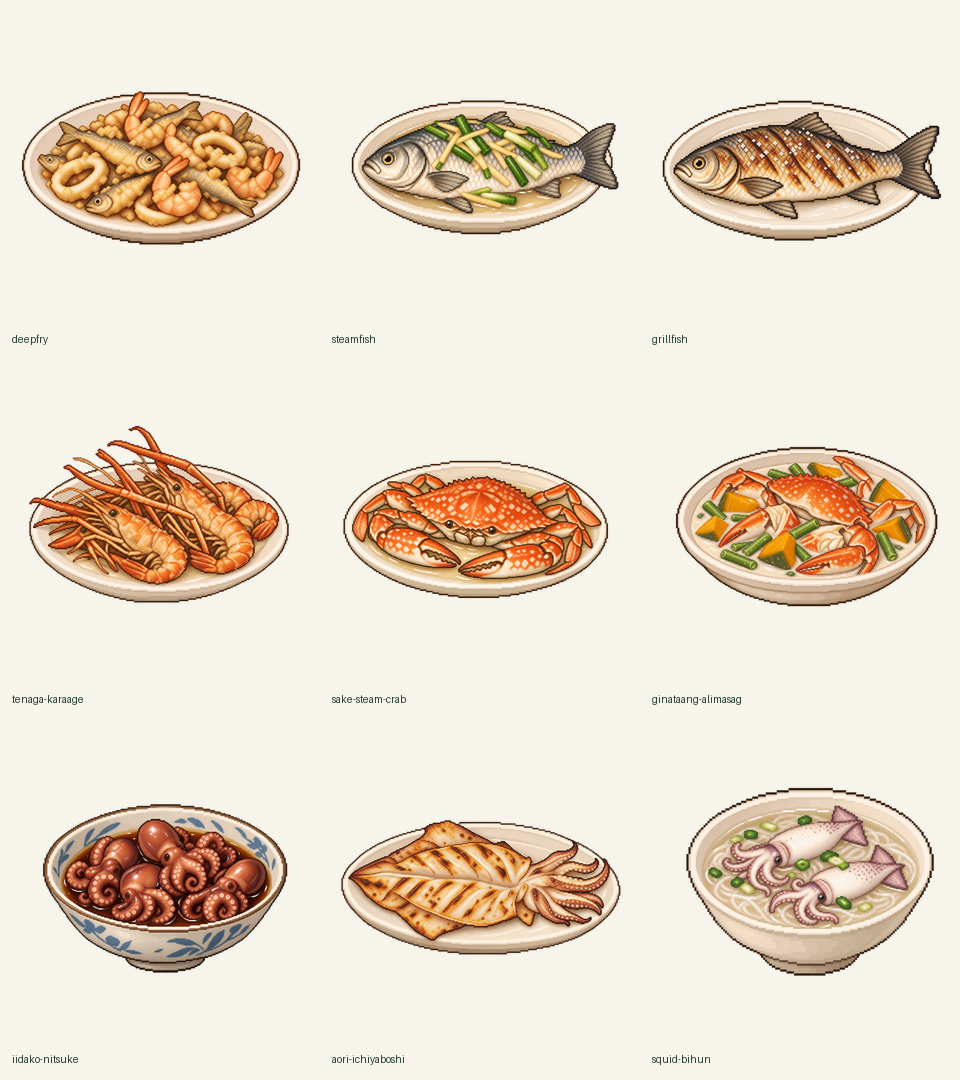
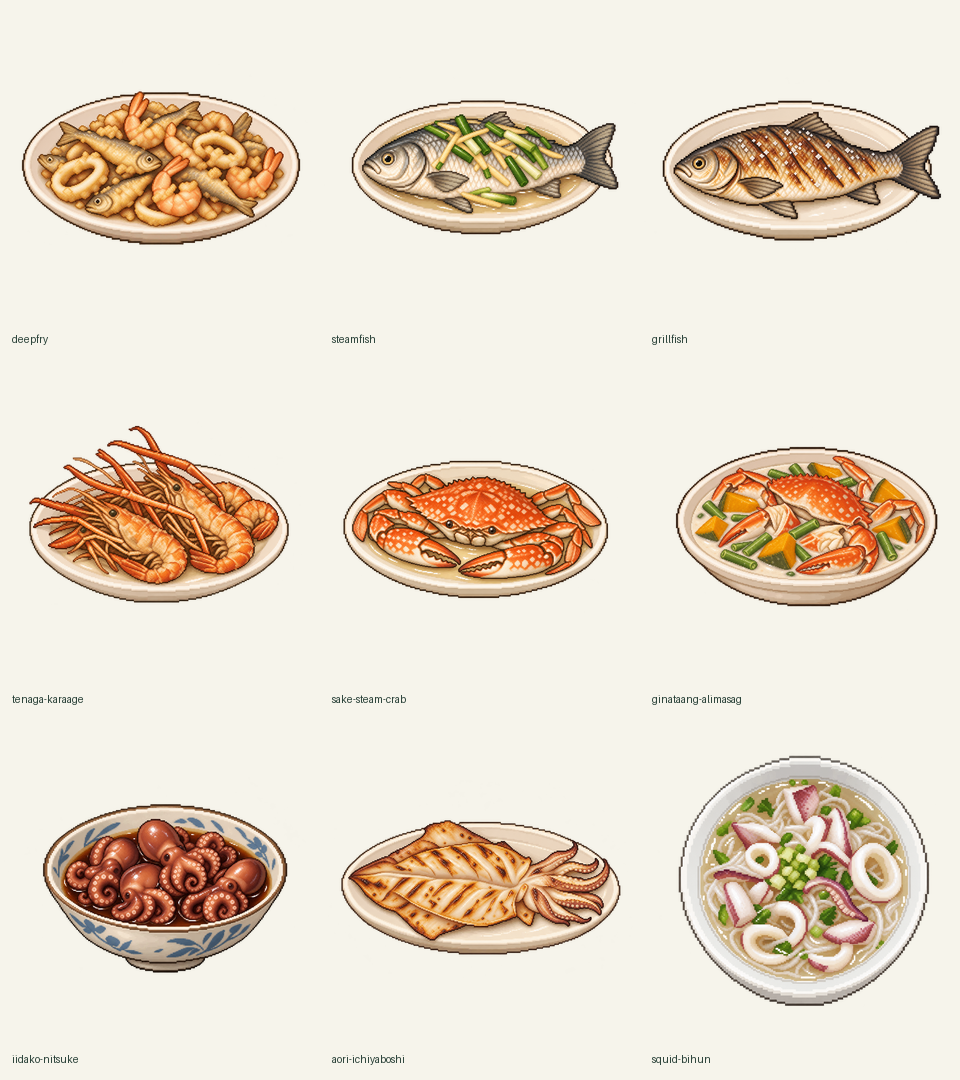
Redraw squid vermicelli soup from author reference

Changed region(s): [[0.6875, 0.7028, 0.9688, 0.9472]]

diff --git a/index.html b/index.html
@@ -1,2 +1,2 @@
-<!doctype html><html lang="zh-Hant"><head><meta charset="utf-8"><meta name="viewport" content="width=device-width,initial-scale=1"><meta name="theme-color" content="#18322a"><meta name="description" content="四海釣遊記：真實水域魚種、掛機釣魚、魚類與水草圖鑑、入侵種賞金與料理。"><title>四海釣遊記</title><link rel="stylesheet" href="style.css?v=0.21-7"></head><body><div class="shell"><aside><div class="brand-row"><a class="brand" href="#">四海釣遊記</a><div class="edition">DEMO 0.21</div></div><div class="wallet"><span>旅費</span><p><strong id="money">80</strong> 元</p><small id="rate"></small></div><nav aria-label="遊戲功能"><button data-tab="fishing" class="selected"><i>01</i>釣魚</button><button data-tab="box"><i>02</i>漁獲箱 <small id="boxCount"></small></button><button data-tab="atlas"><i>03</i>圖鑑 <small id="atlasCount"></small></button><button data-tab="kitchen"><i>04</i>料理</button><button data-tab="gear"><i>05</i>升級與魚餌</button><button data-tab="bounty"><i>06</i>入侵種賞金</button><button data-tab="help"><i>07</i>存檔與說明</button></nav><button id="openMap" class="mini-map-button" aria-haspopup="dialog"><span class="mini-map-title">地圖 <strong id="miniLocation">日月潭</strong><span>放大 ↗</span></span><span class="mini-map-canvas"><canvas id="miniMap" aria-hidden="true"></canvas></span></button><div class="aside-bottom"><p id="saveStatus">進度儲存在此瀏覽器</p><button class="text-btn" id="quickSave">手動存檔</button> · <button class="text-btn" id="quickLoad">讀取存檔</button></div></aside><main><header><div class="heading-row"><h1 id="pageTitle">釣魚</h1><div class="language-switch" role="group" aria-label="語言"><button type="button" data-locale="zh-Hans" lang="zh-Hans" aria-pressed="false">简</button><span aria-hidden="true">/</span><button type="button" data-locale="zh-Hant" lang="zh-Hant" aria-pressed="true">繁</button></div></div><div id="statusBar" class="status-bar" aria-label="目前狀態"></div></header><section id="fishing" class="page"><div class="fishing-grid"><div class="fishing-main"><div class="fishing-panel"><div id="currentWater" class="current-water"></div><div class="cast-top"><div><span class="tag">目前狀態</span><h3 id="castState">尚未開始釣魚</h3></div><button id="cast" class="primary big">開始釣魚</button></div><div class="track" aria-hidden="true"><div id="progress"></div><span id="bobber" class="bobber"><svg viewBox="0 0 20 44"><line x1="10" y1="0" x2="10" y2="8"/><ellipse class="cap" cx="10" cy="16" rx="6" ry="9"/><ellipse class="body" cx="10" cy="27" rx="6" ry="8"/><line x1="10" y1="35" x2="10" y2="44"/></svg><small id="bite"></small></span></div><div class="meta"><span id="castTime"></span><span id="buff"></span></div><div id="castStats" class="stat-tiles"></div><div class="bait-line"><label for="baitSelect">下一竿魚餌</label><select id="baitSelect"></select><span id="baitStock"></span></div><p id="baitIssue" class="muted" role="status"></p></div><div class="journal card"><div class="section-title"><h3>釣魚紀錄</h3><span id="total"></span></div><div id="logs" aria-live="polite"></div></div></div><div id="goals" class="goals card"></div></div></section><section id="box" class="page" hidden></section><section id="atlas" class="page" hidden></section><section id="kitchen" class="page" hidden></section><section id="gear" class="page" hidden></section><section id="bounty" class="page" hidden></section><section id="help" class="page" hidden></section><footer>四海釣遊記 · DEMO 0.21 <a href="SOURCES.md" target="_blank" rel="noreferrer">資料來源</a></footer></main></div><dialog id="mapDialog" aria-labelledby="mapDialogTitle"><div class="map-dialog-head"><h2 id="mapDialogTitle">選擇釣點</h2><button id="closeMap" aria-label="關閉地圖">×</button></div><div class="map-wrap"><canvas id="map" tabindex="0" aria-label="雙色像素世界地圖，可拖曳、滾輪或雙指縮放；亦可用下方水域按鈕選取釣點"></canvas><div class="zoom-tools"><button id="zoomIn" aria-label="放大地圖">＋</button><button id="zoomOut" aria-label="縮小地圖">－</button></div><div class="map-tools"><button id="world">世界</button><button id="focus">目前位置</button><label class="water-label-toggle"><input type="checkbox" id="waterLabels" checked>水域名稱</label></div><span class="map-caption">Natural Earth · © OpenStreetMap 貢獻者 · <span id="mapScale"></span></span></div><div id="regionList" class="region-list" aria-label="選擇水域"></div><div id="location" class="location"></div></dialog><dialog id="saveSlots" aria-labelledby="saveSlotsTitle"><div class="map-dialog-head"><h2 id="saveSlotsTitle">手動存檔</h2><button id="closeSlots" aria-label="關閉">×</button></div><p id="saveSlotsNote" class="muted"></p><div id="saveSlotList" class="slot-list"></div></dialog><dialog id="cloud-transfer" aria-labelledby="cloud-transfer-title"><h2 id="cloud-transfer-title">跨設備存檔轉移</h2><div id="cloud-transfer-body"></div><p id="cloud-transfer-status" role="status" aria-live="polite"></p><div class="row"><button data-cloud="close">返回</button></div></dialog><input type="file" id="import" accept="application/json" hidden><div id="toast" role="status"></div><script src="language-data.js?v=0.21-7"></script><script src="language.js?v=0.21-7"></script><script src="data.js?v=0.21-7"></script><script src="world-data.js?v=0.21-7"></script><script src="water-data.js?v=0.21-7"></script><script src="map.js?v=0.21-7"></script><script src="engine.js?v=0.21-7"></script><script src="collections.js?v=0.21-7"></script><script src="transfer-client.js?v=0.21-7"></script><script src="transfer-save.js?v=0.21-7"></script><script src="app.js?v=0.21-7"></script><script src="transfer-ui.js?v=0.21-7"></script></body></html>
+<!doctype html><html lang="zh-Hant"><head><meta charset="utf-8"><meta name="viewport" content="width=device-width,initial-scale=1"><meta name="theme-color" content="#18322a"><meta name="description" content="四海釣遊記：真實水域魚種、掛機釣魚、魚類與水草圖鑑、入侵種賞金與料理。"><title>四海釣遊記</title><link rel="stylesheet" href="style.css?v=0.21-8"></head><body><div class="shell"><aside><div class="brand-row"><a class="brand" href="#">四海釣遊記</a><div class="edition">DEMO 0.21</div></div><div class="wallet"><span>旅費</span><p><strong id="money">80</strong> 元</p><small id="rate"></small></div><nav aria-label="遊戲功能"><button data-tab="fishing" class="selected"><i>01</i>釣魚</button><button data-tab="box"><i>02</i>漁獲箱 <small id="boxCount"></small></button><button data-tab="atlas"><i>03</i>圖鑑 <small id="atlasCount"></small></button><button data-tab="kitchen"><i>04</i>料理</button><button data-tab="gear"><i>05</i>升級與魚餌</button><button data-tab="bounty"><i>06</i>入侵種賞金</button><button data-tab="help"><i>07</i>存檔與說明</button></nav><button id="openMap" class="mini-map-button" aria-haspopup="dialog"><span class="mini-map-title">地圖 <strong id="miniLocation">日月潭</strong><span>放大 ↗</span></span><span class="mini-map-canvas"><canvas id="miniMap" aria-hidden="true"></canvas></span></button><div class="aside-bottom"><p id="saveStatus">進度儲存在此瀏覽器</p><button class="text-btn" id="quickSave">手動存檔</button> · <button class="text-btn" id="quickLoad">讀取存檔</button></div></aside><main><header><div class="heading-row"><h1 id="pageTitle">釣魚</h1><div class="language-switch" role="group" aria-label="語言"><button type="button" data-locale="zh-Hans" lang="zh-Hans" aria-pressed="false">简</button><span aria-hidden="true">/</span><button type="button" data-locale="zh-Hant" lang="zh-Hant" aria-pressed="true">繁</button></div></div><div id="statusBar" class="status-bar" aria-label="目前狀態"></div></header><section id="fishing" class="page"><div class="fishing-grid"><div class="fishing-main"><div class="fishing-panel"><div id="currentWater" class="current-water"></div><div class="cast-top"><div><span class="tag">目前狀態</span><h3 id="castState">尚未開始釣魚</h3></div><button id="cast" class="primary big">開始釣魚</button></div><div class="track" aria-hidden="true"><div id="progress"></div><span id="bobber" class="bobber"><svg viewBox="0 0 20 44"><line x1="10" y1="0" x2="10" y2="8"/><ellipse class="cap" cx="10" cy="16" rx="6" ry="9"/><ellipse class="body" cx="10" cy="27" rx="6" ry="8"/><line x1="10" y1="35" x2="10" y2="44"/></svg><small id="bite"></small></span></div><div class="meta"><span id="castTime"></span><span id="buff"></span></div><div id="castStats" class="stat-tiles"></div><div class="bait-line"><label for="baitSelect">下一竿魚餌</label><select id="baitSelect"></select><span id="baitStock"></span></div><p id="baitIssue" class="muted" role="status"></p></div><div class="journal card"><div class="section-title"><h3>釣魚紀錄</h3><span id="total"></span></div><div id="logs" aria-live="polite"></div></div></div><div id="goals" class="goals card"></div></div></section><section id="box" class="page" hidden></section><section id="atlas" class="page" hidden></section><section id="kitchen" class="page" hidden></section><section id="gear" class="page" hidden></section><section id="bounty" class="page" hidden></section><section id="help" class="page" hidden></section><footer>四海釣遊記 · DEMO 0.21 <a href="SOURCES.md" target="_blank" rel="noreferrer">資料來源</a></footer></main></div><dialog id="mapDialog" aria-labelledby="mapDialogTitle"><div class="map-dialog-head"><h2 id="mapDialogTitle">選擇釣點</h2><button id="closeMap" aria-label="關閉地圖">×</button></div><div class="map-wrap"><canvas id="map" tabindex="0" aria-label="雙色像素世界地圖，可拖曳、滾輪或雙指縮放；亦可用下方水域按鈕選取釣點"></canvas><div class="zoom-tools"><button id="zoomIn" aria-label="放大地圖">＋</button><button id="zoomOut" aria-label="縮小地圖">－</button></div><div class="map-tools"><button id="world">世界</button><button id="focus">目前位置</button><label class="water-label-toggle"><input type="checkbox" id="waterLabels" checked>水域名稱</label></div><span class="map-caption">Natural Earth · © OpenStreetMap 貢獻者 · <span id="mapScale"></span></span></div><div id="regionList" class="region-list" aria-label="選擇水域"></div><div id="location" class="location"></div></dialog><dialog id="saveSlots" aria-labelledby="saveSlotsTitle"><div class="map-dialog-head"><h2 id="saveSlotsTitle">手動存檔</h2><button id="closeSlots" aria-label="關閉">×</button></div><p id="saveSlotsNote" class="muted"></p><div id="saveSlotList" class="slot-list"></div></dialog><dialog id="cloud-transfer" aria-labelledby="cloud-transfer-title"><h2 id="cloud-transfer-title">跨設備存檔轉移</h2><div id="cloud-transfer-body"></div><p id="cloud-transfer-status" role="status" aria-live="polite"></p><div class="row"><button data-cloud="close">返回</button></div></dialog><input type="file" id="import" accept="application/json" hidden><div id="toast" role="status"></div><script src="language-data.js?v=0.21-8"></script><script src="language.js?v=0.21-8"></script><script src="data.js?v=0.21-8"></script><script src="world-data.js?v=0.21-8"></script><script src="water-data.js?v=0.21-8"></script><script src="map.js?v=0.21-8"></script><script src="engine.js?v=0.21-8"></script><script src="collections.js?v=0.21-8"></script><script src="transfer-client.js?v=0.21-8"></script><script src="transfer-save.js?v=0.21-8"></script><script src="app.js?v=0.21-8"></script><script src="transfer-ui.js?v=0.21-8"></script></body></html>
 

diff --git a/collections.js b/collections.js
@@ -11,11 +11,11 @@ pixelBounds[19]={"width":1254,"height":1254,"rects":[[0,0,320,161],[0,0,320,219]
 pixelBounds[20]={"width":1254,"height":1254,"rects":[[0,0,290,320]]};
 // 0.21 cooking batch 2: individual transparent sprites, slots 305-313.
 Object.assign(pixelSlots.meal,{"deepfry": 305, "steamfish": 306, "grillfish": 307, "tenaga-karaage": 308, "sake-steam-crab": 309, "ginataang-alimasag": 310, "iidako-nitsuke": 311, "aori-ichiyaboshi": 312, "squid-bihun": 313});
-pixelBounds[20].rects.push(...[[0, 0, 320, 208], [0, 0, 320, 203], [0, 0, 320, 212], [0, 0, 320, 206], [0, 0, 320, 210], [0, 0, 320, 202], [0, 0, 320, 214], [0, 0, 320, 208], [0, 0, 320, 225]]);
+pixelBounds[20].rects.push(...[[0, 0, 320, 208], [0, 0, 320, 203], [0, 0, 320, 212], [0, 0, 320, 206], [0, 0, 320, 210], [0, 0, 320, 202], [0, 0, 320, 214], [0, 0, 320, 208], [0, 0, 320, 300]]);
 // Individual animal sprites; explicit dimensions preserve the new artwork proportions.
 const animalArt=new Set(['nipponense','pelagicus','fangsiao','lessoniana','chinensis',"cuttlefish","commonoctopus","shorecrab","brownshrimp","freshwaterjelly","moonjelly","nozakii","upsidedownjelly","boxjelly","acromitus","spottedjelly","rhizostome","compassjelly"]);
 const animalArtSizes={"freshwaterjelly":[320, 317],"moonjelly":[320, 282],"nozakii":[320, 313],"upsidedownjelly":[320, 319],"boxjelly":[320, 287],"acromitus":[315, 320],"spottedjelly":[318, 320],"rhizostome":[320, 316],"compassjelly":[320, 312],"cuttlefish":[320,253],"commonoctopus":[320,220],"shorecrab":[320,216],"brownshrimp":[320,187]};
-function pixelArt(kind,id,known=true,large=false){if(known&&typeof E!=='undefined'&&animalArt.has(id)){const size=animalArtSizes[id],scale=size?90/Math.max(...size):0,fit=size?'--art-width:'+size[0]*scale+'%;--art-height:'+size[1]*scale+'%;':'';return '<span class="pixel-art pixel-kind-animal '+(large?'pixel-large':'')+'" aria-hidden="true" style="background-image:url(assets/animal-'+id+'.png);--art-size:100% 100%;--art-position:center;'+fit+'"></span>'}const slot=pixelSlots[kind]?.[id];if(!known||slot===undefined)return '';const tile=slot%16,sheet=Math.floor(slot/16)+1,x=tile%4*100/3,y=Math.floor(tile/4)*100/3,special=kind==='meal'&&id==='fishhead-pot'?' pixel-meal-fishhead':'',atlas=pixelBounds[sheet],r=atlas.rects[tile],scale=90/Math.max(r[2],r[3]),crop=special?'':'--art-width:'+r[2]*scale+'%;--art-height:'+r[3]*scale+'%;--art-size:'+atlas.width/r[2]*100+'% '+atlas.height/r[3]*100+'%;--art-position:'+r[0]/(atlas.width-r[2])*100+'% '+r[1]/(atlas.height-r[3])*100+'%;';return '<span class="pixel-art pixel-kind-'+kind+' pixel-sheet-'+sheet+special+' '+(large?'pixel-large':'')+'" aria-hidden="true" style="background-position:'+x+'% '+y+'%;'+crop+(sheet===18?'background-image:url(assets/pixel-atlas-18-clear.png);':sheet>=13?'background-image:url(assets/sprites16/'+kind+'-'+id+'.png);--art-size:100% 100%;--art-position:center;':'')+'"></span>'}
+function pixelArt(kind,id,known=true,large=false){if(known&&typeof E!=='undefined'&&animalArt.has(id)){const size=animalArtSizes[id],scale=size?90/Math.max(...size):0,fit=size?'--art-width:'+size[0]*scale+'%;--art-height:'+size[1]*scale+'%;':'';return '<span class="pixel-art pixel-kind-animal '+(large?'pixel-large':'')+'" aria-hidden="true" style="background-image:url(assets/animal-'+id+'.png);--art-size:100% 100%;--art-position:center;'+fit+'"></span>'}const slot=pixelSlots[kind]?.[id];if(!known||slot===undefined)return '';const tile=slot%16,sheet=Math.floor(slot/16)+1,x=tile%4*100/3,y=Math.floor(tile/4)*100/3,special=kind==='meal'&&id==='fishhead-pot'?' pixel-meal-fishhead':'',atlas=pixelBounds[sheet],r=atlas.rects[tile],scale=90/Math.max(r[2],r[3]),crop=special?'':'--art-width:'+r[2]*scale+'%;--art-height:'+r[3]*scale+'%;--art-size:'+atlas.width/r[2]*100+'% '+atlas.height/r[3]*100+'%;--art-position:'+r[0]/(atlas.width-r[2])*100+'% '+r[1]/(atlas.height-r[3])*100+'%;';return '<span class="pixel-art pixel-kind-'+kind+' pixel-sheet-'+sheet+special+' '+(large?'pixel-large':'')+'" aria-hidden="true" style="background-position:'+x+'% '+y+'%;'+crop+(sheet===18?'background-image:url(assets/pixel-atlas-18-clear.png);':sheet>=13?'background-image:url(assets/sprites16/'+kind+'-'+id+'.png'+(id==='squid-bihun'?'?v=0.21-8':'')+');--art-size:100% 100%;--art-position:center;':'')+'"></span>'}
 function atlasPlantRows(list){return list.length?'<div class="picker-group">水草<small>'+list.length+' 種</small></div><div class="item-picker-grid">'+list.map(x=>'<button class="item-chip atlas-chip '+(atlasPicked==='plant:'+x.id?'active':'')+' '+(E.plantKnown(state,x.id)?'':'unrecorded')+'" data-all-plant-pick="'+x.id+'" aria-pressed="'+(atlasPicked==='plant:'+x.id)+'">'+pixelArt('plant',x.id,E.plantKnown(state,x.id))+'<span>'+E.plantName(state,x.id)+'</span><small>'+(E.plantKnown(state,x.id)?'已採集':E.plantWaters(x.id).map(r=>r.name).join('・'))+'</small></button>').join('')+'</div>':''}
 function atlasSummary(){const p=E.collectionProgress(state),all=atlasFilter==='all',plants=atlasFilter==='plant',part=plants?p.plants:p[atlasFilter]||p.fish;$('atlasProgressLabel').textContent=all?'圖鑑總收集':plants?'水草收集':atlasFilter==='crustacean'?'蝦蟹收集':atlasFilter==='cephalopod'?'頭足類收集':atlasFilter==='jellyfish'?'水母收集':'魚類收集';$('atlasProgress').textContent=(all?p.caught:part.caught)+' / '+(all?p.total:part.total)+' 種';$('atlasBreakdown').textContent='魚類 '+p.fish.caught+'／'+p.fish.total+' · 蝦蟹 '+p.crustacean.caught+'／'+p.crustacean.total+' · 頭足類 '+p.cephalopod.caught+'／'+p.cephalopod.total+' · 水母 '+p.jellyfish.caught+'／'+p.jellyfish.total+' · 水草 '+p.plants.caught+'／'+p.plants.total;$('atlasProgressBar').style.width=(all?p.caught/p.total:part.caught/Math.max(1,part.total))*100+'%';$('atlasTotalLabel').textContent='累計收穫';$('atlasTotal').textContent=plants?state.weeds+' 團':state.total+' 尾 · '+state.animalTotal+' 隻'}
 

diff --git a/assets/料理補圖提示詞.md b/assets/料理補圖提示詞.md
@@ -64,3 +64,9 @@ Use case: stylized-concept. One finished dish inventory sprite for existing fish
 Create ONE compact game sprite: Taiwanese small squid rice vermicelli soup, simple ivory bowl seen three-quarter from above, clear light broth and fine thin white rice vermicelli, two SMALL WHOLE cooked squid with white slender mantles, muted purple fins and curled arms, sparse scallion garnish. MATCH attached old game atlas BOTTOM ROW MEAL PIXEL ART style exactly, and attached steamed fish sprite pixel size, discrete layered shades and low saturation. Crisp visible pixel clusters and stair-step edge. CRITICAL: bowl is a solid clean cutout; everything OUTSIDE bowl silhouette must be alpha ZERO. NO drop shadow, glow, brown halo, vignette, haze or steam anywhere. Do NOT place a fake black or white background. Single dish only, no text, utensils, table or frame. Center full bowl, generous transparent margin. No photorealism, watercolor or soft gradients.
 
 採用生成檔：C:\Users\nlb76\.codex\generated_images\01a167f8-440b-7180-810c-1d8ed47025eb\exec-5a3ace05-5956-4def-ae80-871900826187.png
+
+## 小卷米粉定稿重繪
+
+Draw a small Taiwanese squid rice vermicelli soup PIXEL ART game item. Food contents from first reference collage: CUT white squid RINGS and short purple-edged squid PIECES, a small tentacle piece, fine thin white rice noodles, clear broth, chopped greens. NO intact whole squid. Second reference atlas bottom row establishes the muted finely pixelated game food style. A plain white ceramic round bowl viewed nearly TOP DOWN like photo top left, complete HARD PIXEL EDGED silhouette. Layered pixel shading INSIDE bowl only. Outside bowl: EMPTY TRANSPARENT PIXELS ONLY. Flat cutout sprite on transparent background, like an extracted sticker. NO external lighting effects, NO drop shadow, NO fuzzy halo, NO glow, NO steam. Do not draw dark scene, table, words or photo collage. Full single bowl, no utensils, centered, 15 percent empty transparent margin. Muted palette, clear square pixels, no watercolor or photorealistic texture.
+
+採用生成檔：C:\Users\nlb76\.codex\generated_images\01a167f8-440b-7180-810c-1d8ed47025eb\exec-91ced6cc-3c9d-4a0a-8e59-112562d091be.png

diff --git a/assets/料理補圖說明.md b/assets/料理補圖說明.md
@@ -16,6 +16,8 @@
 | 椰奶燉花蟹 | sprites16/meal-ginataang-alimasag.png | 320×202 |
 | 明石飯蛸煮付 | sprites16/meal-iidako-nitsuke.png | 320×214 |
 | 德島軟絲一夜干 | sprites16/meal-aori-ichiyaboshi.png | 320×208 |
-| 小卷米粉 | sprites16/meal-squid-bihun.png | 320×225 |
+| 小卷米粉 | sprites16/meal-squid-bihun.png | 320×300 |
 
 本機與公開顯示驗證記錄見根目錄 work/meal-art21/。
+
+小卷米粉另依作者提供的料理照片重畫為俯視湯碗，小卷切圈、切段，搭配細米粉、清湯與蔥花；原整隻小卷擺盤已替換。
